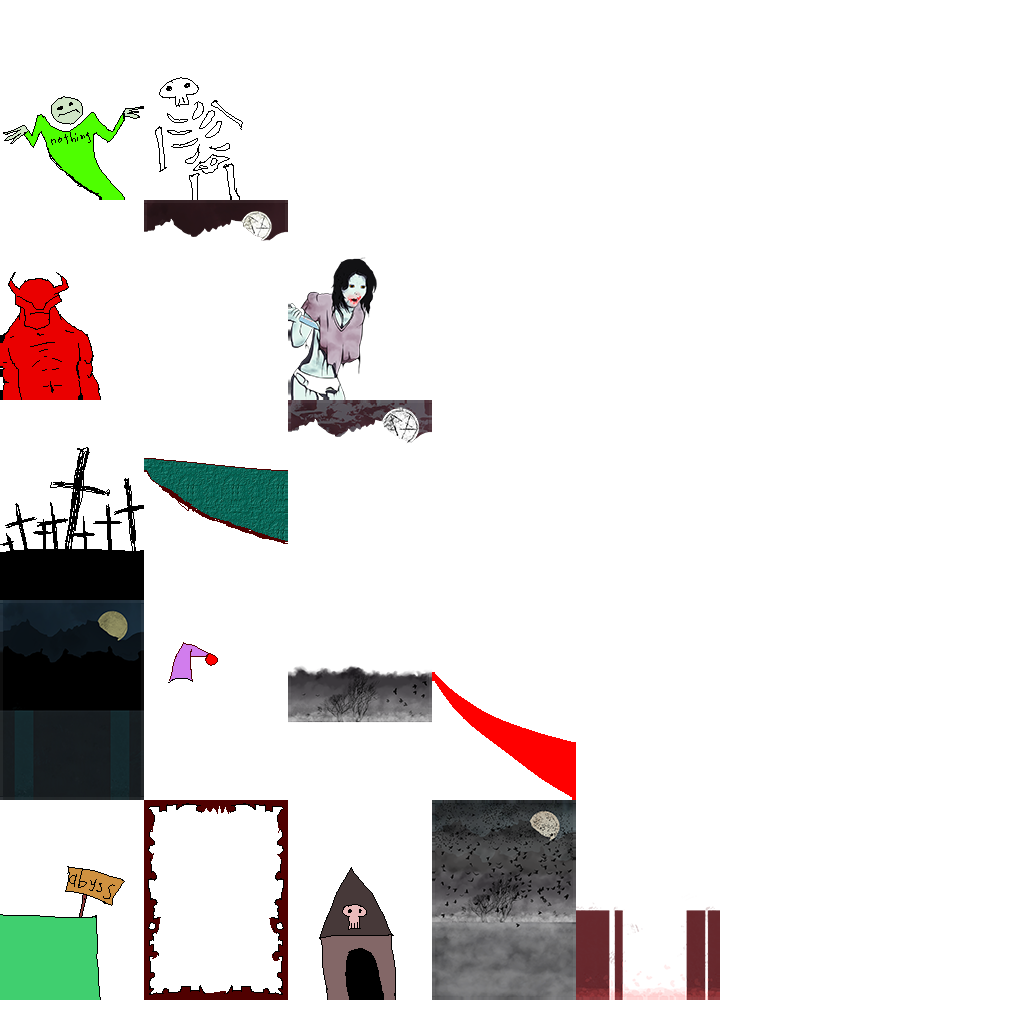
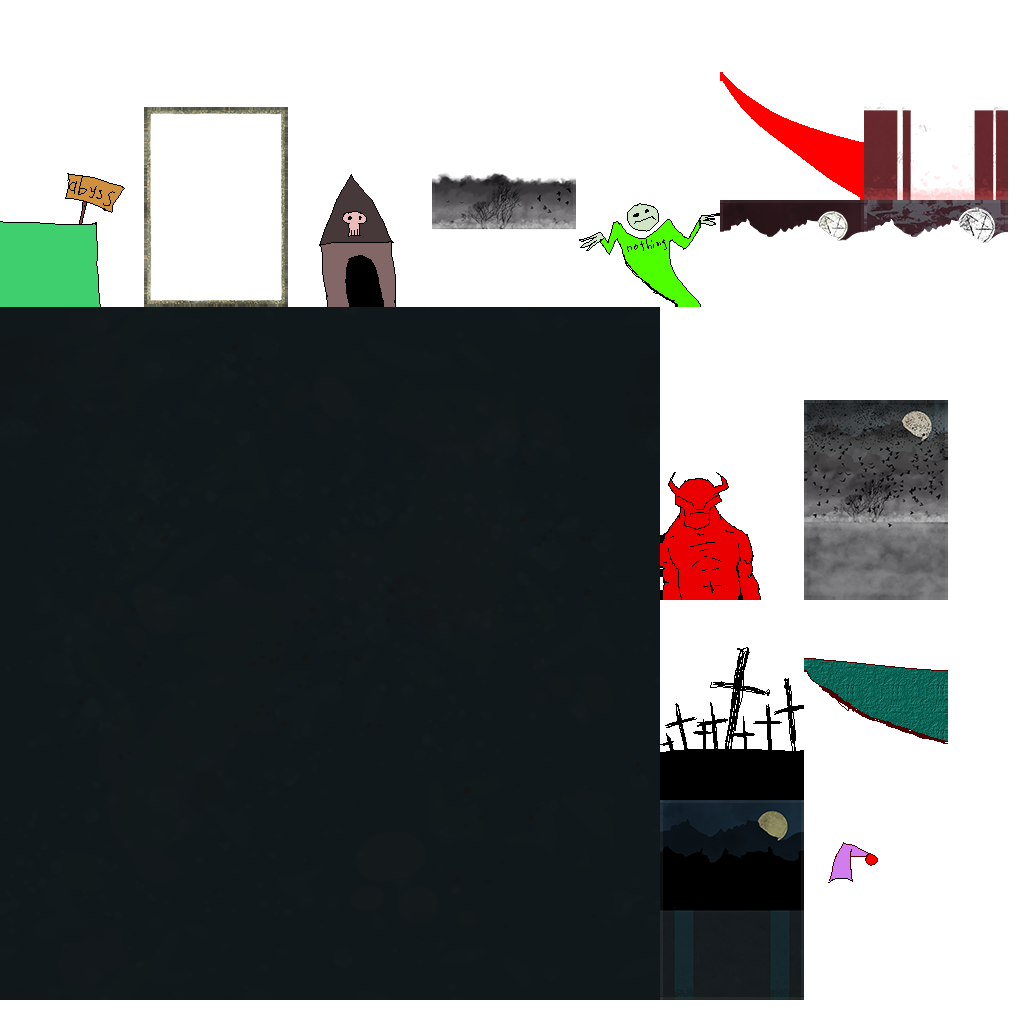
Add background and update art

diff --git a/core/src/com/shoggoth/ld45/system/GameLogicSystem.java b/core/src/com/shoggoth/ld45/system/GameLogicSystem.java
@@ -2,7 +2,9 @@ package com.shoggoth.ld45.system;
 
 import com.badlogic.ashley.core.*;
 import com.badlogic.ashley.utils.ImmutableArray;
+import com.badlogic.gdx.Gdx;
 import com.badlogic.gdx.math.Interpolation;
+import com.badlogic.gdx.math.Vector3;
 import com.kothead.gdxjam.base.component.PositionComponent;
 import com.kothead.gdxjam.base.util.Direction;
 import com.shoggoth.ld45.EntityManager;
@@ -192,7 +194,10 @@ public class GameLogicSystem extends EntitySystem {
         List<Entity> result = without(entities, mappers);
         Iterator<Entity> iterator = result.iterator();
         while (iterator.hasNext()) {
-            if (isTeammateCreature(iterator.next())) {
+            Entity entity = iterator.next();
+            if (!AttachComponent.mapper.has(entity)) continue;
+            Entity card = AttachComponent.mapper.get(entity).entity;
+            if (isTeammateCreature(card)) {
                 iterator.remove();
             }
         }
@@ -242,6 +247,7 @@ public class GameLogicSystem extends EntitySystem {
 
         CellComponent cellComponent = CellComponent.mapper.get(cell);
         manager.attach(cell, card);
+
         card.add(new InterpolationPositionComponent(
                 Interpolation.fastSlow,
                 PositionComponent.mapper.get(card).position,
@@ -255,14 +261,41 @@ public class GameLogicSystem extends EntitySystem {
         clearSelection();
 
         CellComponent cellComponent = CellComponent.mapper.get(cell);
-        SpawnerComponent.mapper.get(card).spawn(cellComponent.getX(), cellComponent.getY());
+        Entity spawned = SpawnerComponent.mapper.get(card).spawn(cellComponent.getX(), cellComponent.getY());
+        InterpolationPositionComponent component = new InterpolationPositionComponent(
+                Interpolation.fastSlow,
+                PositionComponent.mapper.get(card).position,
+                PositionComponent.mapper.get(spawned).position,
+                1.0f
+        );
+        component.from.z = -1.0f;
+        spawned.add(component);
     }
 
     private void attack(Entity source, Entity target) {
         setSelectable();
         clearSelection();
 
-        // TODO: implement later
+        Vector3 origin = new Vector3(PositionComponent.mapper.get(source).position);
+
+        Vector3 aim = new Vector3(PositionComponent.mapper.get(target).position);
+        aim.x += (origin.x - aim.x) / 2;
+        aim.y += (origin.y - aim.y) / 2;
+        aim.z = 1.0f;
+
+        InterpolationPositionComponent component = new InterpolationPositionComponent(
+                Interpolation.slowFast,
+                origin,
+                aim,
+                0.10f
+        );
+        component.next = new InterpolationPositionComponent(
+                Interpolation.fastSlow,
+                aim,
+                origin,
+                0.20f
+        );
+        source.add(component);
     }
 
     private class ActionQueue {

diff --git a/core/src/com/shoggoth/ld45/Assets.java b/core/src/com/shoggoth/ld45/Assets.java
@@ -5,7 +5,7 @@ import com.badlogic.gdx.graphics.g2d.TextureRegion;
 import com.kothead.gdxjam.base.data.loader.TextureRegionLoader;
 
 public final class Assets {
-  public static final AssetDescriptor[] ALL = {images.ABYSS, images.BACKGROUND, images.BORDER, images.CEMETERY, images.COSMETIC, images.CRYPT, images.DEMON, images.GROUND, images.GROUND2, images.GROUND3, images.NOTHING, images.PRESENCE, images.PRESENCE2, images.RIVER, images.RIVER2, images.SKELETON, images.ZOMBIE};
+  public static final AssetDescriptor[] ALL = {images.ABYSS, images.BACKGROUND, images.BORDER, images.CEMETERY, images.COSMETIC, images.CRYPT, images.DEMON, images.DESKTILE, images.GROUND, images.GROUND2, images.GROUND3, images.NOTHING, images.PRESENCE, images.PRESENCE2, images.RIVER, images.RIVER2, images.SKELETON, images.ZOMBIE};
 
   public static final class images {
     public static final AssetDescriptor<TextureRegion> ABYSS = new AssetDescriptor<TextureRegion>("images/pack.atlas#abyss", TextureRegion.class, new TextureRegionLoader.TextureRegionParameter("images/pack.atlas", "abyss"));
@@ -21,6 +21,8 @@ public final class Assets {
     public static final AssetDescriptor<TextureRegion> CRYPT = new AssetDescriptor<TextureRegion>("images/pack.atlas#crypt", TextureRegion.class, new TextureRegionLoader.TextureRegionParameter("images/pack.atlas", "crypt"));
 
     public static final AssetDescriptor<TextureRegion> DEMON = new AssetDescriptor<TextureRegion>("images/pack.atlas#demon", TextureRegion.class, new TextureRegionLoader.TextureRegionParameter("images/pack.atlas", "demon"));
+
+    public static final AssetDescriptor<TextureRegion> DESKTILE = new AssetDescriptor<TextureRegion>("images/pack.atlas#desktile", TextureRegion.class, new TextureRegionLoader.TextureRegionParameter("images/pack.atlas", "desktile"));
 
     public static final AssetDescriptor<TextureRegion> GROUND = new AssetDescriptor<TextureRegion>("images/pack.atlas#ground", TextureRegion.class, new TextureRegionLoader.TextureRegionParameter("images/pack.atlas", "ground"));
 
@@ -42,6 +44,6 @@ public final class Assets {
 
     public static final AssetDescriptor<TextureRegion> ZOMBIE = new AssetDescriptor<TextureRegion>("images/pack.atlas#zombie", TextureRegion.class, new TextureRegionLoader.TextureRegionParameter("images/pack.atlas", "zombie"));
 
-    public static final AssetDescriptor[] ALL = {ABYSS, BACKGROUND, BORDER, CEMETERY, COSMETIC, CRYPT, DEMON, GROUND, GROUND2, GROUND3, NOTHING, PRESENCE, PRESENCE2, RIVER, RIVER2, SKELETON, ZOMBIE};
+    public static final AssetDescriptor[] ALL = {ABYSS, BACKGROUND, BORDER, CEMETERY, COSMETIC, CRYPT, DEMON, DESKTILE, GROUND, GROUND2, GROUND3, NOTHING, PRESENCE, PRESENCE2, RIVER, RIVER2, SKELETON, ZOMBIE};
   }
 }

diff --git a/core/src/com/shoggoth/ld45/util/TiledBackgroundSprite.java b/core/src/com/shoggoth/ld45/util/TiledBackgroundSprite.java
@@ -1,0 +1,59 @@
+package com.shoggoth.ld45.util;
+
+import com.badlogic.gdx.graphics.g2d.Batch;
+import com.badlogic.gdx.graphics.g2d.Sprite;
+import com.badlogic.gdx.graphics.g2d.TextureRegion;
+import com.badlogic.gdx.math.Vector2;
+
+public class TiledBackgroundSprite extends Sprite {
+
+    private Vector2 offset = new Vector2(0.0f, 0.0f);
+
+    public TiledBackgroundSprite(TextureRegion region) {
+        super(region);
+    }
+
+    public TiledBackgroundSprite(TextureRegion region, float width, float height) {
+        this(region);
+        setSize(width, height);
+    }
+
+    @Override
+    public void draw(Batch batch) {
+        float x = offset.x % getRegionWidth() - getRegionWidth();
+        float y = offset.y % getRegionHeight() - getRegionHeight();
+
+        for (float i = getY() + y; i < getY() + getHeight(); i += getRegionHeight()) {
+            for (float j = getX() + x; j < getX() + getWidth(); j += getRegionWidth()) {
+                // V2 and V1 should be reversed, because the coordinate system of textures
+                // rendering in a sprite batch is from bottom to top, but the system
+                // which is used in a texture region is from top to bottom
+                batch.draw(getTexture(), j, i, getRegionWidth(), getRegionHeight(),
+                        getU(), getV2(), getU2(), getV());
+            }
+        }
+    }
+
+    public void offset(Vector2 offset) {
+        offset(offset.x, offset.y);
+    }
+
+    public void offset(float x, float y) {
+        offset.add(x, y);
+        cutExcess();
+    }
+
+    public void setOffset(Vector2 offset) {
+        setOffset(offset.x, offset.y);
+    }
+
+    public void setOffset(float x, float y) {
+        offset.set(x, y);
+        cutExcess();
+    }
+
+    private void cutExcess() {
+        if (Math.abs(offset.x) > getRegionWidth()) offset.x -= Math.copySign(getRegionWidth(), offset.x);
+        if (Math.abs(offset.y) > getRegionHeight()) offset.y -= Math.copySign(getRegionHeight(), offset.y);
+    }
+}

diff --git a/core/src/com/shoggoth/ld45/system/InterpolationPositionSystem.java b/core/src/com/shoggoth/ld45/system/InterpolationPositionSystem.java
@@ -3,8 +3,11 @@ package com.shoggoth.ld45.system;
 import com.badlogic.ashley.core.Entity;
 import com.badlogic.ashley.core.Family;
 import com.badlogic.ashley.systems.IteratingSystem;
+import com.badlogic.gdx.Gdx;
 import com.badlogic.gdx.math.Vector3;
 import com.kothead.gdxjam.base.component.PositionComponent;
+import com.kothead.gdxjam.base.system.RenderSystem;
+import com.shoggoth.ld45.EntityManager;
 import com.shoggoth.ld45.component.InterpolationPositionComponent;
 
 public class InterpolationPositionSystem extends IteratingSystem {
@@ -19,6 +22,10 @@ public class InterpolationPositionSystem extends IteratingSystem {
     @Override
     protected void processEntity(Entity entity, float deltaTime) {
         InterpolationPositionComponent component = InterpolationPositionComponent.mapper.get(entity);
+        if (component.elapsed == 0.0f) {
+            forceSortZ();
+        }
+
         component.elapsed += deltaTime;
 
         Vector3 position = PositionComponent.mapper.get(entity).position;
@@ -29,10 +36,17 @@ public class InterpolationPositionSystem extends IteratingSystem {
         );
 
         if (component.elapsed >= component.duration) {
+            position.set(component.to);
             entity.remove(InterpolationPositionComponent.class);
+            forceSortZ();
+
             if (component.next != null) {
                 entity.add(component.next);
             }
         }
+    }
+
+    private void forceSortZ() {
+        getEngine().getSystem(RenderSystem.class).forceSort();
     }
 }

diff --git a/core/src/com/shoggoth/ld45/system/BackgroundRenderSystem.java b/core/src/com/shoggoth/ld45/system/BackgroundRenderSystem.java
@@ -1,0 +1,37 @@
+package com.shoggoth.ld45.system;
+
+import com.badlogic.ashley.core.EntitySystem;
+import com.badlogic.gdx.math.Vector3;
+import com.kothead.gdxjam.base.GdxJam;
+import com.kothead.gdxjam.base.screen.BaseScreen;
+import com.shoggoth.ld45.Assets;
+import com.shoggoth.ld45.util.RenderConfig;
+import com.shoggoth.ld45.util.TiledBackgroundSprite;
+
+public class BackgroundRenderSystem extends EntitySystem {
+
+    private BaseScreen screen;
+    private RenderConfig config;
+    private TiledBackgroundSprite background;
+
+    public BackgroundRenderSystem(int priority, BaseScreen screen, RenderConfig config) {
+        super(priority);
+        this.screen = screen;
+        background = new TiledBackgroundSprite(GdxJam.assets().get(Assets.images.DESKTILE),
+                config.getMaxWidth(),
+                config.getMaxHeight());
+        this.config = config;
+    }
+
+    @Override
+    public void update(float deltaTime) {
+        Vector3 focus = screen.getCamera().position;
+        background.setPosition(focus.x - screen.getWorldWidth() / 2f,
+                focus.y - screen.getWorldHeight() / 2f);
+        background.setOffset(-focus.x, -focus.y);
+
+        screen.batch().begin();
+        background.draw(screen.batch());
+        screen.batch().end();
+    }
+}

diff --git a/core/src/com/shoggoth/ld45/EntityManager.java b/core/src/com/shoggoth/ld45/EntityManager.java
@@ -37,6 +37,7 @@ public class EntityManager {
         engine.addSystem(new InterpolationOpacitySystem(priority++));
         engine.addSystem(new InterpolationScaleSystem(priority++));
         engine.addSystem(new InputSystem(priority++, screen, renderConfig));
+        engine.addSystem(new BackgroundRenderSystem(priority++, screen, renderConfig));
         engine.addSystem(new RenderSystem(priority++, screen.batch()));
         engine.addSystem(new FieldHighlightRenderSystem(priority++, screen.shapes(), renderConfig));
         engine.addSystem(new GameLogicSystem(priority++, screen, this, renderConfig, teams));
@@ -100,9 +101,9 @@ public class EntityManager {
             add(Assets.images.PRESENCE2);
         }});
         sprite.setBase(Assets.images.ZOMBIE);
-        sprite.setCosmetics(new ArrayList<AssetDescriptor<TextureRegion>>() {{
-            add(Assets.images.COSMETIC);
-        }});
+//        sprite.setCosmetics(new ArrayList<AssetDescriptor<TextureRegion>>() {{
+//            add(Assets.images.COSMETIC);
+//        }});
         entity.add(new SpriteComponent(sprite));
         engine.addEntity(entity);
         return entity;

diff --git a/core/src/com/shoggoth/ld45/system/FieldHighlightRenderSystem.java b/core/src/com/shoggoth/ld45/system/FieldHighlightRenderSystem.java
@@ -48,7 +48,7 @@ public class FieldHighlightRenderSystem extends IteratingSystem {
         } else if (SelectableComponent.mapper.has(entity)) {
             shapes.setColor(selectable);
         } else {
-            shapes.setColor(empty);
+            return;
         }
 
         Vector3 position = PositionComponent.mapper.get(entity).position;

diff --git a/core/src/com/shoggoth/ld45/system/InputSystem.java b/core/src/com/shoggoth/ld45/system/InputSystem.java
@@ -3,6 +3,7 @@ package com.shoggoth.ld45.system;
 import com.badlogic.ashley.core.Engine;
 import com.badlogic.ashley.core.Entity;
 import com.badlogic.ashley.core.EntitySystem;
+import com.badlogic.gdx.Gdx;
 import com.badlogic.gdx.Input;
 import com.badlogic.gdx.InputProcessor;
 import com.badlogic.gdx.graphics.Camera;

diff --git a/core/src/com/shoggoth/ld45/LD45.java b/core/src/com/shoggoth/ld45/LD45.java
@@ -39,7 +39,8 @@ public class LD45 extends GdxJamGame {
 						Assets.images.CEMETERY,
 						Assets.images.CRYPT,
 						Assets.images.ABYSS,
-						Assets.images.NOTHING
+						Assets.images.NOTHING,
+						Assets.images.DESKTILE
 				));
 	}
 
